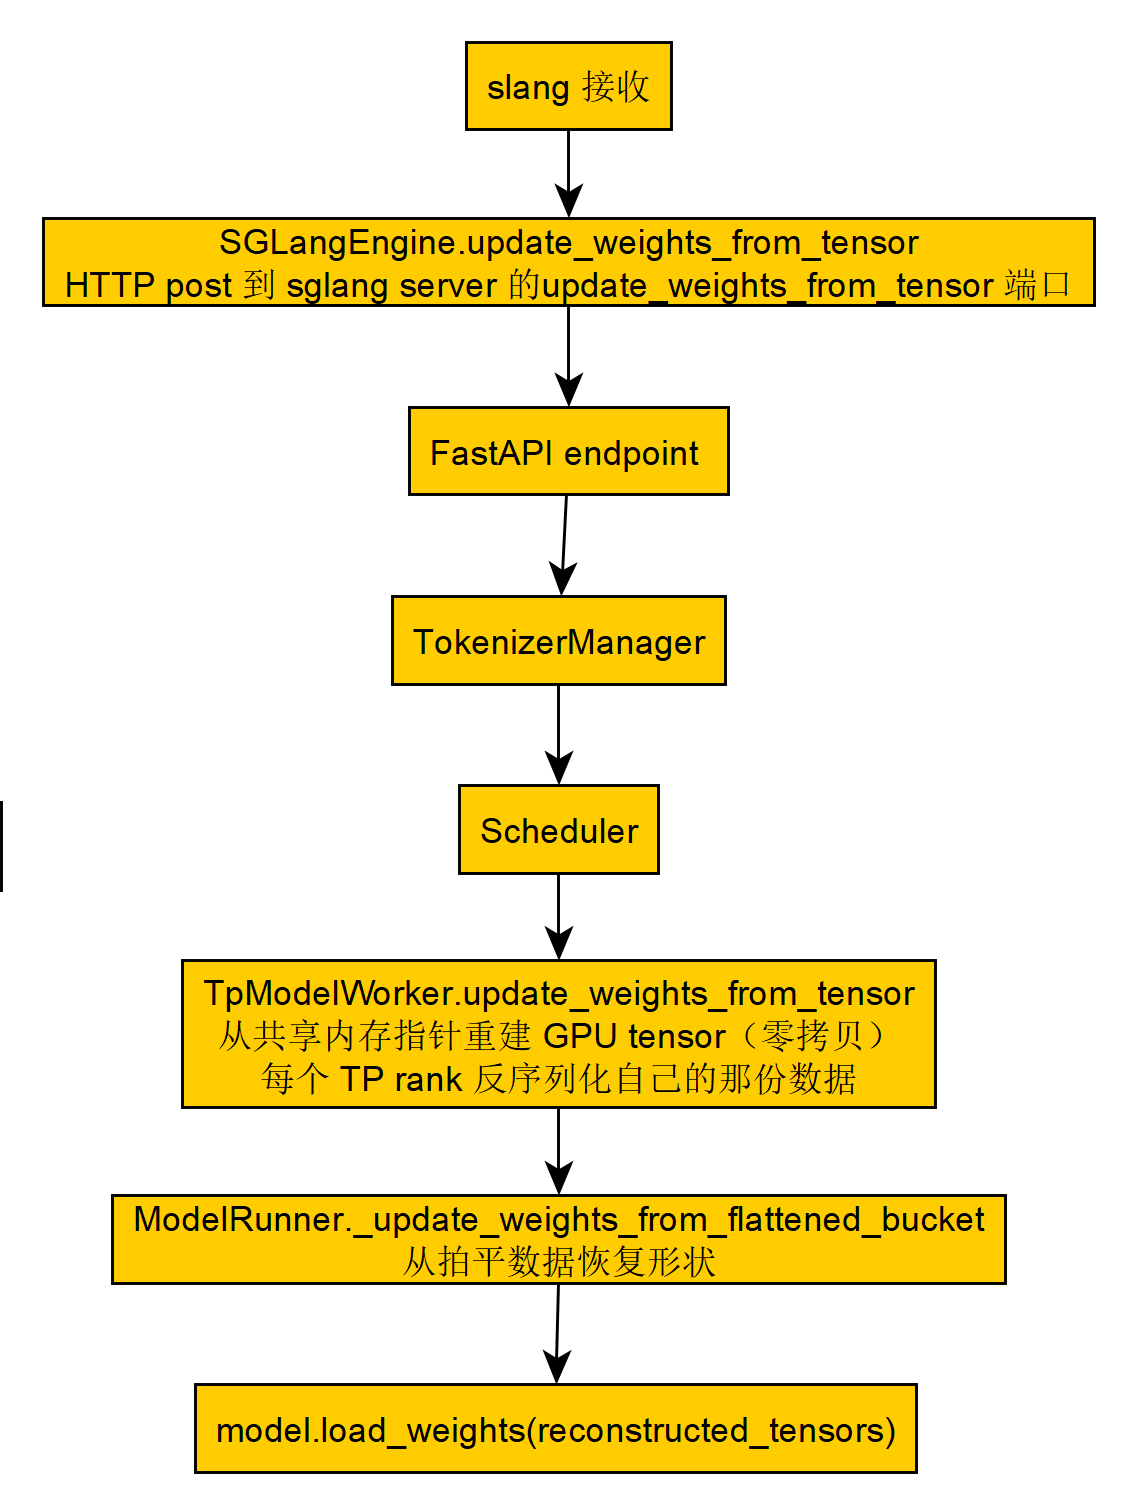
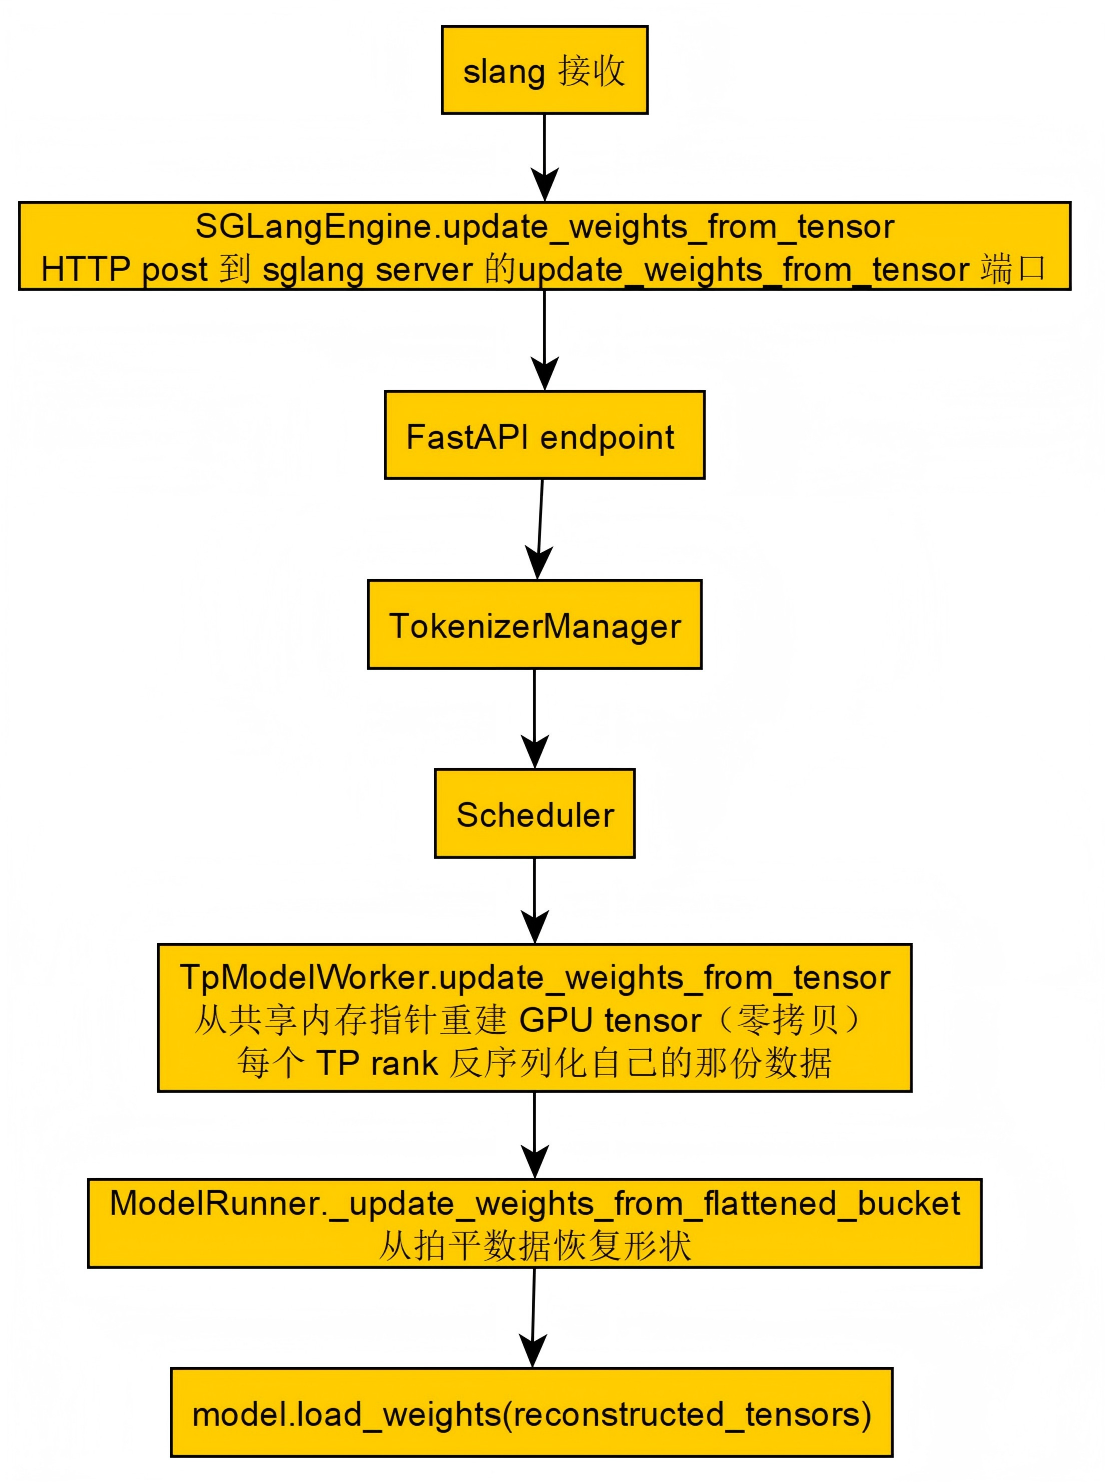
修改slime_update_weight.md 文档细节

Changed region(s): [[0.0, 0.0, 0.9846, 0.9933]]

diff --git a/content/notes/slime_update_weight.md b/content/notes/slime_update_weight.md
@@ -1,8 +1,8 @@
 ---
-title: "[slime] 权重转换逻辑"
+title: "slime 权重转换逻辑"
 date: 2026-10-13
 draft: false
-tags: ["slime", "权重更新", "rl"]
+tags: ["RL", "slime", "权重更新"]
 math: false
 toc: true
 summary: "slime 权重更新两类 UpdateWeightFromDistributed / UpdateWeightFromTensor 的实现逻辑。"
